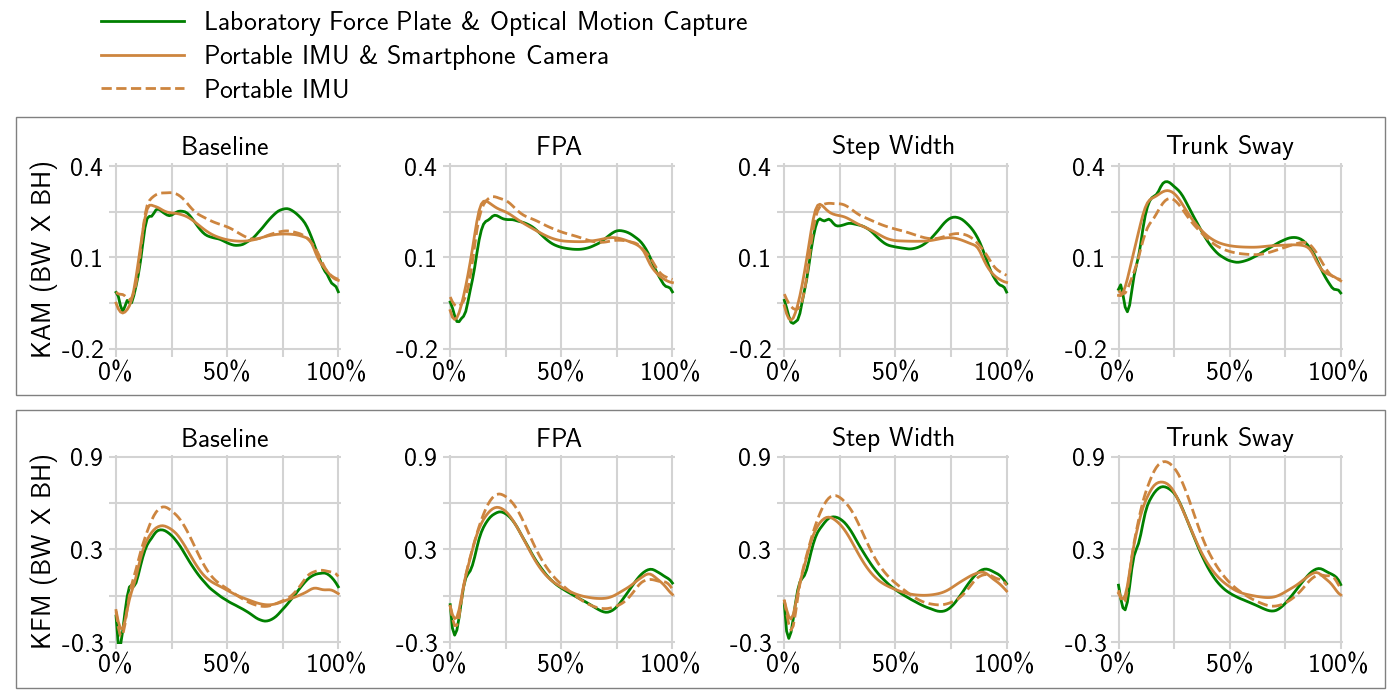
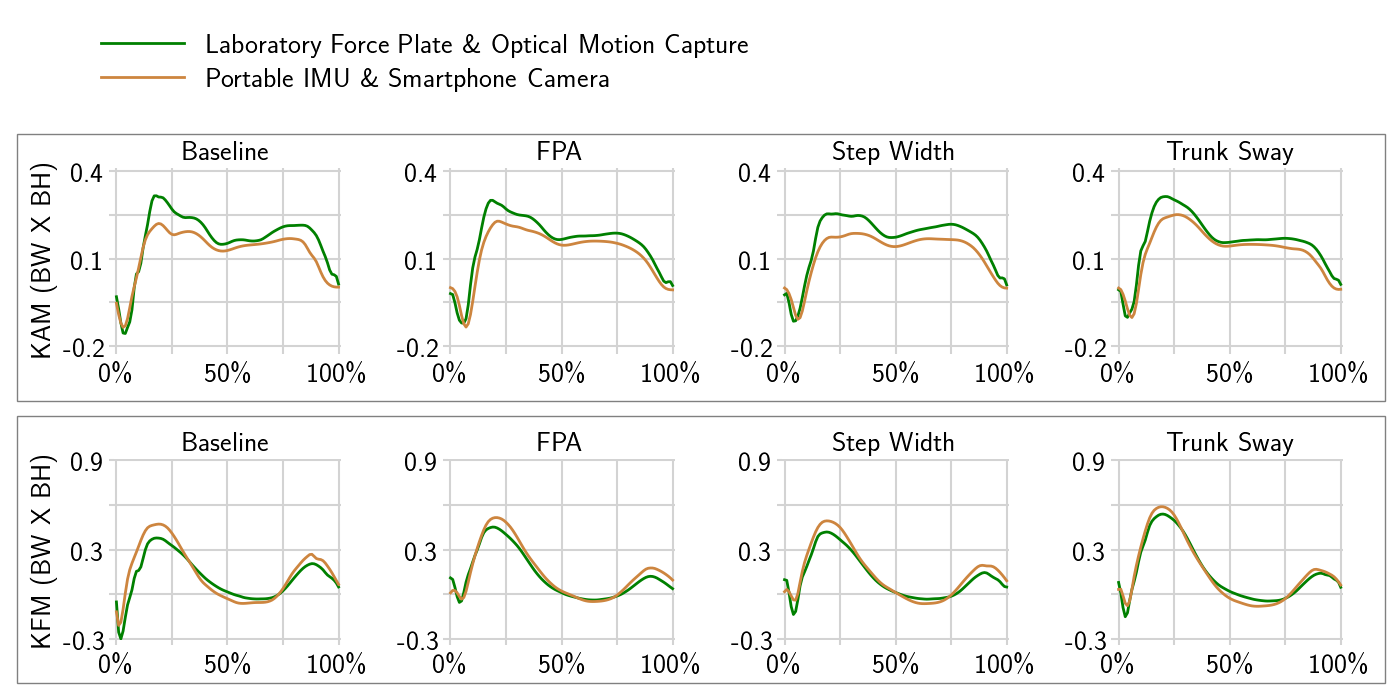
updated figures

diff --git a/figures/f6.py b/figures/f6.py
@@ -1,17 +1,16 @@
-from PaperFigures import format_axis
+from figures.PaperFigures import format_axis
 from const import LINE_WIDTH, FONT_DICT, FONT_SIZE, FONT_DICT_LARGE, SENSOR_COMBINATION
 import matplotlib.lines as lines
 import matplotlib.pyplot as plt
 from matplotlib import rc
 import pandas as pd
 from scipy.stats import ttest_rel
-from scikit_posthocs import posthoc_tukey, posthoc_ttest
 from statsmodels.stats.multicomp import pairwise_tukeyhsd
 import prettytable as pt
 import numpy as np
 
 
-SENSOR_COMBINATION_SORTED = ['8IMU_2camera', '3IMU_2camera', '8IMU', '3IMU', '2camera']
+SENSOR_COMBINATION_SORTED = ['8IMU_2camera', '3IMU_2camera', '8IMU', '1IMU_2camera', '3IMU', '2camera', '1IMU']
 
 
 def format_errorbar_cap(caplines):
@@ -21,46 +20,45 @@ def format_errorbar_cap(caplines):
         caplines[i_cap].set_markeredgewidth(LINE_WIDTH)
 
 
-def draw_f6(mean_sel, std_sel, title):
+def draw_f6_various_imus(_mean, _std, title):
     def format_ticks():
         ax = plt.gca()
         ax.set_ylabel('Relative Root Mean Square Error (\%)', fontdict=FONT_DICT_LARGE)
-        ax.set_ylim(0, 9)
-        ax.set_yticks(range(0, 10, 1))
-        ax.set_yticklabels(range(0, 10, 1), fontdict=FONT_DICT_LARGE)
-        ax.set_xlim(-1, 9)
-        ax.set_xticks(range(0, 9, 2))
-        ax.set_xticklabels(['8 IMUs \&\n2 Cameras', '3 IMUs \&\n2 Cameras', '8 IMUs',
-                            '3 IMUs', '2 Cameras'], fontdict=FONT_DICT_LARGE)
+        ax.set_ylim(0, 12)
+        ax.set_yticks(range(0, 13, 2))
+        ax.set_yticklabels(range(0, 13, 2), fontdict=FONT_DICT_LARGE)
+        ax.set_xlim(-1, 13)
+        ax.set_xticks(range(0, 13, 2))
+        ax.set_xticklabels(['8 IMUs \&\n2 Cameras', '3 IMUs \&\n2 Cameras', '8 IMUs', '1 IMU \&\n2 Cameras',
+                            '3 IMUs', '2 Cameras', '1 IMU'], fontdict=FONT_DICT_LARGE)
 
     rc('text', usetex=True)
-    fig = plt.figure(figsize=(9, 9))
+    fig = plt.figure(figsize=(13, 7))
     format_axis()
     format_ticks()
-    sel_locs = range(0, 9, 2)
-    # bar_colors = ['red', 'orange', 'green', 'blue', 'slategrey']
-
-    for i_condition in range(5):
-        bar_sel = plt.bar(sel_locs[i_condition], mean_sel[i_condition],
-                          color=[0.8, 0.3, 0.3], width=0.6)
-    ebar, caplines, barlinecols = plt.errorbar(sel_locs, mean_sel, std_sel,
+    sel_locs = range(0, 13, 2)
+    for i_condition in range(7):
+        _bars = plt.bar(sel_locs[i_condition], _mean[i_condition], color=[0.8, 0.3, 0.3], width=0.6)
+    ebar, caplines, barlinecols = plt.errorbar(sel_locs, _mean, _std,
                                                capsize=0, ecolor='black', fmt='none', lolims=True,
                                                elinewidth=LINE_WIDTH)
     format_errorbar_cap(caplines)
     plt.tight_layout(rect=[0.01, 0.01, 0.99, 0.96], w_pad=2, h_pad=3)
+    plt.grid()
+    plt.title(title, fontsize=30)
 
 
 def draw_f6_kam_and_kfm(mean_, std_, sigifi_sign_fun):
     def format_ticks():
         ax = plt.gca()
         ax.set_ylabel('Relative Root Mean Square Error (\%)', fontdict=FONT_DICT_LARGE)
-        ax.set_xlabel('KAM Estimation \ \ \ \ \ \ \ \ \ \ \ \ \ \ \ \ \ \ \ \ KFM Estimation', fontdict=FONT_DICT_LARGE, labelpad=12)
+        ax.set_xlabel('KAM Estimation \ \ \ \ \ \ \ \ \ \ \ \ \ \ \ \ \ \ \ \ KFM Estimation', fontdict=FONT_DICT_LARGE, labelpad=14)
         ax.set_ylim(0, 12)
         ax.set_yticks(range(0, 13, 2))
         ax.set_yticklabels(range(0, 13, 2), fontdict=FONT_DICT_LARGE)
         ax.set_xlim(-1, 12)
         ax.set_xticks([0, 2, 4, 7, 9, 11])
-        ax.set_xticklabels(['IMU \&\n Camera', 'IMU', 'Camera', 'IMU \&\n Camera', 'IMU', 'Camera'], fontdict=FONT_DICT_LARGE)
+        ax.set_xticklabels(['IMU \&\n Camera', 'IMU \n Alone', 'Camera \n Alone', 'IMU \&\n Camera', 'IMU \n Alone', 'Camera \n Alone'], fontdict=FONT_DICT_LARGE)
 
     rc('text', usetex=True)
     fig = plt.figure(figsize=(9, 9))
@@ -76,12 +74,12 @@ def draw_f6_kam_and_kfm(mean_, std_, sigifi_sign_fun):
                                                capsize=0, ecolor='black', fmt='none', lolims=True,
                                                elinewidth=LINE_WIDTH)
     format_errorbar_cap(caplines)
-    plt.tight_layout(rect=[0.01, 0.01, 0.99, 0.96], w_pad=2, h_pad=3)
+    plt.tight_layout(rect=[0., 0., 1, 1], w_pad=2, h_pad=3)
     # plt.legend([bar_[0], bar_[-1]],
     #            ['KAM estimation', 'KFM estimation'],
     #            handlelength=3, bbox_to_anchor=(0.3, 0.95), ncol=1, fontsize=FONT_SIZE,
     #            frameon=False, labelspacing=0.2)
-    l2 = lines.Line2D([0.54, 0.54], [0.01, 0.9], linestyle='--', transform=fig.transFigure, color='gray')
+    l2 = lines.Line2D([0.54, 0.54], [0.01, 0.96], linestyle='--', transform=fig.transFigure, color='gray')
     fig.lines.extend([l2])
 
 
@@ -128,6 +126,11 @@ def print_pairwise_tukeyhsd(combo_results):
     print(results)
 
 
+def print_mean_rrmse(mean_values):
+    for value in mean_values:
+        print('{:.1f} \%'.format(value))
+
+
 def save_fig(name):
     plt.savefig('exports/' + name + '.png')
 
@@ -138,14 +141,15 @@ if __name__ == "__main__":
     for i_moment, moment in enumerate(['KAM', 'KFM']):
         test_df = pd.read_csv('results/0131_all_feature_' + moment + '/estimation_result_individual.csv')        # 0127_all_feature_ 0127_selected_feature_
         test_df = test_df[test_df['trial'] == 'all']
-        combo_results = []
-        mean_moment, sem_moment = [], []
 
+        """ Figure showing results of 8, 3, and 1 IMU for discussion """
+        combo_results = []
         for sensor_combo in SENSOR_COMBINATION_SORTED:
             combo_result = test_df[target_matric + sensor_combo]
             combo_results.append(combo_result)
         print('\nP values for {} estimation'.format(moment))
         print_paired_t_test(combo_results)
+        draw_f6_various_imus([result.mean() for result in combo_results], [result.sem() for result in combo_results], moment)
 
         for sensor_combo in ['8IMU_2camera', '8IMU', '2camera']:
             combo_result = test_df[target_matric + sensor_combo]
@@ -153,6 +157,7 @@ if __name__ == "__main__":
             sem_compare_8.append(combo_result.sem())
 
     """ A KAM & KFM joint figure """
-    draw_f6_kam_and_kfm(mean_compare_8, sem_compare_8, sigifi_sign_8)
-    save_fig('f6')
+    # print_mean_rrmse(mean_compare_8)
+    # draw_f6_kam_and_kfm(mean_compare_8, sem_compare_8, sigifi_sign_8)
+    # save_fig('f6')
     plt.show()

diff --git a/figures/f4.py b/figures/f4.py
@@ -1,4 +1,4 @@
-from PaperFigures import get_mean_std, hide_axis_add_grid, get_data
+from figures.PaperFigures import get_mean_std, hide_axis_add_grid, get_data
 from const import SUBJECTS
 import numpy as np
 import matplotlib.patches as patches
@@ -16,17 +16,17 @@ def init_figure():
     return fig, gs
 
 
-def draw_subplot(ax, trial_index, mean_std_IMU_OP, mean_std_IMU):
+def draw_subplot(ax, trial_index, mean_std_IMU_OP):
     arr_true_mean = mean_std_IMU_OP['true_mean']
     arr_pred_mean_IMU_OP = mean_std_IMU_OP['pred_mean']
-    arr_pred_mean_IMU = mean_std_IMU['pred_mean']
+    # arr_pred_mean_IMU = mean_std_IMU['pred_mean']
 
     axis_x = range(arr_true_mean.shape[0])
     ax.plot(axis_x, arr_true_mean, color='green', label='Laboratory Force Plate \& Optical Motion Capture',
             linewidth=LINE_WIDTH * 1)
     ax.plot(axis_x, arr_pred_mean_IMU_OP, color='peru', label='Portable IMU \& Smartphone Camera',
             linewidth=LINE_WIDTH * 1)
-    ax.plot(axis_x, arr_pred_mean_IMU, '--', color='peru', label='Portable IMU', linewidth=LINE_WIDTH * 1)
+    # ax.plot(axis_x, arr_pred_mean_IMU, '--', color='peru', label='Portable IMU', linewidth=LINE_WIDTH * 1)
     ax.tick_params(labelsize=FONT_DICT['fontsize'])
     ax.set_xticks(range(0, 101, 25))
     ax.set_xticklabels(['0\%', '', '50\%', '', '100\%'], fontdict=FONT_DICT)
@@ -74,18 +74,12 @@ if __name__ == "__main__":
     fig, gs = init_figure()
     for i_moment, moment in enumerate(['KAM', 'KFM']):
         for trial_index, trial_name in enumerate(TRIALS):
-            _data_IMU_OP, _data_fields = get_data('results/0120_' + moment + '/IMU+OP/results.h5', trial_index,
-                                                  SUBJECTS[1])
+            _data_IMU_OP, _data_fields = get_data('results/0131_all_feature_' + moment + '/8IMU_2camera/results.h5', trial_index, SUBJECTS[4])
             mean_std_IMU_OP = get_mean_std(np.concatenate(_data_IMU_OP, axis=0), _data_fields, 'main_output')
-            _data_IMU, _data_fields = get_data('results/0120_' + moment + '/IMU/results.h5', trial_index,
-                                               SUBJECTS[1])
-            mean_std_IMU = get_mean_std(np.concatenate(_data_IMU, axis=0), _data_fields, 'main_output')
             if moment == 'KFM':
                 mean_std_IMU_OP['true_mean'], mean_std_IMU_OP['pred_mean'] = -mean_std_IMU_OP['true_mean'], - \
                 mean_std_IMU_OP['pred_mean']
-                mean_std_IMU['true_mean'], mean_std_IMU['pred_mean'] = -mean_std_IMU['true_mean'], -mean_std_IMU[
-                    'pred_mean']
-            draw_subplot(fig.add_subplot(gs[i_moment + 1, trial_index]), trial_index, mean_std_IMU_OP, mean_std_IMU)
+            draw_subplot(fig.add_subplot(gs[i_moment + 1, trial_index]), trial_index, mean_std_IMU_OP)
     organize_fig()
     save_fig()
     plt.show()

diff --git a/figures/table_metrics.py b/figures/table_metrics.py
@@ -6,7 +6,7 @@ import pandas as pd
 import numpy as np
 from const import TRIALS, SUBJECTS, SENSOR_COMBINATION
 import matplotlib.pyplot as plt
-from PaperFigures import get_score
+from figures.PaperFigures import get_score
 
 
 def append_mean_results_in_the_end(all_results):
@@ -56,12 +56,6 @@ if __name__ == '__main__':
     result_date = 'results/0131_all_feature_'       # all_feature_
     for target in ['KAM', 'KFM']:
         combo_result = [get_all_results(result_date + target, sensor) for sensor in SENSOR_COMBINATION]
-
-        # get_trial_result = lambda all_results, trial_name: list(filter(lambda result: result['trial'] == trial_name, all_results))
-        # results = {}
-        # for _input, input_name in zip(combo_result, SENSOR_COMBINATION):
-        #     trial_results = {trial: get_metric_mean_std_result(get_trial_result(_input, trial), 'rRMSE') for trial in TRIALS}
-        #     results[input_name] = trial_results
 
         result_df_all_three = pd.DataFrame(combo_result[0])[['subject', 'trial']]
         for results, result_name in zip(combo_result, SENSOR_COMBINATION):

diff --git a/figures/PaperFigures.py b/figures/PaperFigures.py
@@ -51,6 +51,20 @@ def get_data(file_path, specific_trial=None, subjects=SUBJECTS):
     return _data_all, _data_fields
 
 
+def get_fpa(_data, _data_fields):
+    def get_FPA_all():
+        toe_col_loc = _data_fields.index('FM2_x')
+        toe = _data[:, 0, toe_col_loc:toe_col_loc+3]
+        x=1
+    get_FPA_all()
+        # forward_vector = toe - heel
+        # if side == 'l':
+        #     FPAs = - 180 / np.pi * np.arctan2(forward_vector[:, 0], forward_vector[:, 1])
+        # else:
+        #     FPAs = 180 / np.pi * np.arctan2(forward_vector[:, 0], forward_vector[:, 1])
+        # return FPAs
+
+
 def get_score(arr_true, arr_pred, w):
     assert(len(arr_true.shape) == 1 and arr_true.shape == arr_pred.shape == w.shape)
     locs = np.where(w.ravel())[0]

diff --git a/figures/t2.py b/figures/t2.py
@@ -1,0 +1,18 @@
+from figures.PaperFigures import get_mean_std, get_data, get_fpa
+from const import SUBJECTS
+import numpy as np
+from const import TRIALS
+
+
+def get_moment_impulse(moment_data):
+    
+
+
+if __name__ == "__main__":
+    for i_moment, moment in enumerate(['KAM', 'KFM']):
+        """ Get baseline"""
+        _data_all_bl, _data_fields = get_data('results/0131_all_feature_' + moment + '/8IMU_2camera/results.h5')
+        _data_all_input, _data_fields_input = get_data('results/40samples+stance.h5')
+        for i_sub in range(len(SUBJECTS)):
+            _fpa_bl = get_fpa(_data_all_bl[i_sub], _data_fields)
+

diff --git a/figures/f3.py b/figures/f3.py
@@ -40,7 +40,7 @@ def draw_f3(mean_std_kam, mean_std_kfm):
     def subplot_2_style():
         ax = plt.gca()
         ax.set_ylabel('Knee Flexion Moment (BW X BH)', fontdict=FONT_DICT)
-        ax.set_ylim(-0.21, 0.81)
+        ax.set_ylim(-0.22, 0.82)
         ticks = [-0.2, 0., 0.2, 0.4, 0.6, 0.8]
         ax.set_yticks(ticks)
         ax.set_yticklabels(ticks, fontdict=FONT_DICT)
